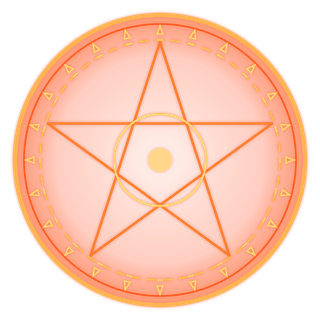
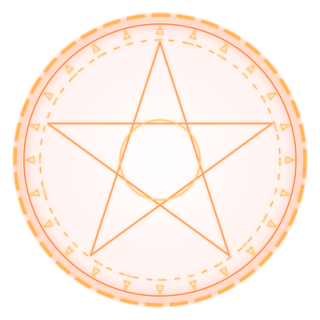
check

diff --git a/game/Crimson_Survivor/game.js b/game/Crimson_Survivor/game.js
@@ -404,7 +404,7 @@ function paintEnemyShotBody(c,shot,originX=0,originY=0){
   const styles=VIS.enemyShotStyles,type=shot.type,radius=Math.max(1,Number(shot.r)||1),f=enemyShotFrames(shot);c.save();c.translate(originX,originY);
   const shotImage=type==='bossSpear'?images.shotSpear:type==='bossOrb'?images.shotBossOrb:type==='bossBolt'?images.shotBossBolt:type==='orb'?images.shotSpit:fxTinted('shotShard',type==='wave'?styles.default.waveColor:styles.default.normalColor);
   if(shotImage){
-    if(type==='bossSpear'){c.drawImage(shotImage,-69,-15,100,30)}
+    if(type==='bossSpear'){c.drawImage(shotImage,-70,-21,104,42)}
     else if(type==='orb'){const pulse=1+Math.sin(f.pulseFrame/f.pulseFrames*TAU)*.08,size=radius*2.5*pulse;c.drawImage(shotImage,-size/2,-size/2,size,size)}
     else{c.rotate(f.rotationFrame/f.rotationFrames*TAU);const size=radius*(type==='bossBolt'?2.9:2.7);c.drawImage(shotImage,-size/2,-size/2,size,size)}
     c.restore();return;
@@ -2841,6 +2841,7 @@ function drawWorld(camX,camY){
   for(const textItem of game.texts)if(isVisibleWorld(textItem.x,textItem.y,cull.textExtra)){ctx.save();ctx.globalAlpha=textItem.life/textItem.max;ctx.font=`${VIS.damageText.fontWeight} ${textItem.size}px ${VIS.damageText.fontFamily}`;ctx.textAlign='center';ctx.fillStyle=textItem.color;if(VIS.damageText.strokeColor){ctx.lineJoin='round';ctx.lineWidth=VIS.damageText.strokeWidth||3;ctx.strokeStyle=VIS.damageText.strokeColor;ctx.strokeText(textItem.text,textItem.x,textItem.y)}else{ctx.shadowColor=VIS.damageText.shadowColor;ctx.shadowBlur=VIS.damageText.shadowBlur}ctx.fillText(textItem.text,textItem.x,textItem.y);ctx.restore()}profilerEnd('draw.particles',section);
 }
 
+const DIRECTIONAL_ENEMIES=new Set(VIS.enemy.directionalTypes||['rat','hound']);
 function drawEnemies(){
   const visual=VIS.enemy,hpVisual=visual.hpBar;
   for(const enemy of game.enemies){
@@ -2848,7 +2849,7 @@ function drawEnemies(){
     ctx.save();ctx.translate(enemy.x,enemy.y);let scale=1;
     if(enemy.type==='bloater'&&enemy.state==='charge')scale=1+Math.sin((visual.bloaterChargeReferenceSeconds-enemy.charge)*visual.bloaterChargePulseSpeed)*visual.bloaterChargePulseAmount+(1-enemy.charge/visual.bloaterChargeReferenceSeconds)*visual.bloaterChargeGrowth;
     if(enemy.type==='boss')scale=1+Math.sin(game.elapsed*visual.bossPulseSpeed)*visual.bossPulseAmount;
-    ctx.scale(enemy.flip||1,1);ctx.scale(scale,scale);ctx.globalAlpha=enemy.hitFlash>0?visual.hitFlashAlpha:1;const image=images[ENEMIES[enemy.type].img];
+    let facing=enemy.flip||1;if(DIRECTIONAL_ENEMIES.has(enemy.type)){const moved=enemy.x-(enemy.lastFacingX??enemy.x);enemy.lastFacingX=enemy.x;if(!(enemy.stun>0||enemy.freeze>0||game.effects.freeze>0))enemy.facingVelocity=(enemy.facingVelocity||0)*.82+moved*.18;const threshold=visual.facingThreshold??.25;if(enemy.facingVelocity>threshold)enemy.facing=1;else if(enemy.facingVelocity<-threshold)enemy.facing=-1;facing=enemy.facing||(game.player.x<enemy.x?-1:1)}ctx.scale(facing,1);ctx.scale(scale,scale);ctx.globalAlpha=enemy.hitFlash>0?visual.hitFlashAlpha:1;const image=images[ENEMIES[enemy.type].img];
     if(image){ctx.drawImage(image,-enemy.r*visual.spriteScale/2,-enemy.r*visual.spriteScale/2,enemy.r*visual.spriteScale,enemy.r*visual.spriteScale);profilerCount('drawImages')}else{ctx.fillStyle=visual.fallbackColor;ctx.beginPath();ctx.arc(0,0,enemy.r,0,TAU);ctx.fill()}
     if((enemy.freeze>0||game.effects.freeze>0)&&images.iceShell){ctx.globalAlpha=.9;const iceSize=enemy.r*2.75;ctx.drawImage(images.iceShell,-iceSize/2,-iceSize/2,iceSize,iceSize)}
     else if(enemy.freeze>0||game.effects.freeze>0){ctx.globalAlpha=visual.freezeRingAlpha;ctx.strokeStyle=visual.freezeRingColor;ctx.lineWidth=visual.freezeRingWidth;ctx.beginPath();ctx.arc(0,0,enemy.r+visual.freezeRingPadding+Math.sin(game.elapsed*visual.freezeRingPulseSpeed+enemy.variant*visual.freezeRingPulsePhaseScale)*visual.freezeRingPulseAmount,0,TAU);ctx.stroke()}
@@ -2894,7 +2895,7 @@ function drawEnemyShot(shot){
   const sprite=getEnemyShotBodySprite(shot);drawSpriteEntry(sprite,shot.x-sprite.extent,shot.y-sprite.extent);
 }
 
-function drawBoomerang(boomerang){const visual=VIS.boomerang;if(images.chakram){const size=boomerang.r*2.45;drawImageCentered(images.chakram,boomerang.x,boomerang.y,size,size,boomerang.rot);return}ctx.save();ctx.translate(boomerang.x,boomerang.y);ctx.rotate(boomerang.rot);ctx.strokeStyle=visual.color||CFG.weapons.boomerang.color;ctx.lineWidth=visual.lineWidth;ctx.shadowBlur=visual.shadowBlur;ctx.shadowColor=visual.shadowColor||CFG.weapons.boomerang.color;ctx.beginPath();ctx.arc(0,0,boomerang.r,visual.arcStart,visual.arcEnd);ctx.stroke();ctx.restore()}
+function drawBoomerang(boomerang){const visual=VIS.boomerang;if(images.chakram){const size=boomerang.r*2.45,glowImage=fxTinted('softGlow',visual.glowColor||visual.shadowColor||CFG.weapons.boomerang.color);if(glowImage){const glowSize=size*(visual.glowScale||1.55);ctx.save();ctx.globalCompositeOperation='lighter';ctx.globalAlpha=(visual.glowAlpha??.6)*(0.88+0.12*Math.sin(game.elapsed*14));ctx.drawImage(glowImage,boomerang.x-glowSize/2,boomerang.y-glowSize/2,glowSize,glowSize);ctx.restore()}drawImageCentered(images.chakram,boomerang.x,boomerang.y,size,size,boomerang.rot);return}ctx.save();ctx.translate(boomerang.x,boomerang.y);ctx.rotate(boomerang.rot);ctx.strokeStyle=visual.color||CFG.weapons.boomerang.color;ctx.lineWidth=visual.lineWidth;ctx.shadowBlur=visual.shadowBlur;ctx.shadowColor=visual.shadowColor||CFG.weapons.boomerang.color;ctx.beginPath();ctx.arc(0,0,boomerang.r,visual.arcStart,visual.arcEnd);ctx.stroke();ctx.restore()}
 function drawOrbit(){const weapon=game.player.weapons.orbit;if(!weapon)return;const level=weapon.level,levelCfg=weaponLevelConfig('orbit',level),visual=VIS.orbit,expand=levelCfg.expandCycleSeconds>0?(Math.sin(game.elapsed*TAU/levelCfg.expandCycleSeconds)*visual.expandPhaseMultiplier+visual.expandPhaseOffset):0,spec=orbitSpec(level,expand);ctx.save();ctx.globalAlpha=visual.ringAlpha;ctx.strokeStyle=visual.ringColor;ctx.lineWidth=level>=4?visual.ringWidthLevel4:visual.ringWidthBase;ctx.shadowBlur=visual.ringShadowBlur;ctx.shadowColor=visual.ringShadowColor;ctx.beginPath();ctx.arc(game.player.x,game.player.y,spec.radius,0,TAU);ctx.stroke();ctx.restore();for(let i=0;i<spec.count;i++){const angle=(game.orbitPhase||0)+i/spec.count*TAU,x=game.player.x+Math.cos(angle)*spec.radius,y=game.player.y+Math.sin(angle)*spec.radius;ctx.save();ctx.globalAlpha=visual.trailAlpha;ctx.strokeStyle=visual.trailColor;ctx.lineWidth=Math.max(visual.trailMinimumWidth,spec.size*visual.trailWidthMultiplier);ctx.beginPath();ctx.arc(game.player.x,game.player.y,spec.radius,angle-visual.trailArcLength,angle);ctx.stroke();ctx.restore();drawImageCentered(images.orbitBlade,x,y,spec.size,spec.size,angle+game.elapsed*visual.bladeRotationSpeed)}}
 function drawDrones(){const weapon=game.player.weapons.drone,config=weaponLevelConfig('drone',weapon?weapon.level:1),visual=VIS.drone;for(const drone of game.drones){const x=game.player.x+Math.cos(drone.angle)*config.orbitRadius,y=game.player.y+Math.sin(drone.angle)*config.orbitRadius;ctx.save();ctx.globalAlpha=visual.shadowAlpha;ctx.fillStyle=visual.shadowColor;ctx.beginPath();ctx.ellipse(x,y+visual.shadowOffsetY,visual.shadowRadiusX,visual.shadowRadiusY,0,0,TAU);ctx.fill();ctx.restore();drawImageCentered(images.droneUnit,x,y,visual.spriteSize,visual.spriteSize,drone.angle+Math.PI/2)}}
 function drawFlameJet(zone){const visual=VIS.flame,active=zone.age<zone.duration,envelope=active?clamp(Math.min(zone.age/visual.fadeInSeconds,(zone.duration-zone.age)/visual.fadeOutSeconds),0,1):0;if(envelope>0&&flameCoreCache){ctx.save();ctx.translate(zone.x,zone.y);ctx.rotate(zone.ang);ctx.globalCompositeOperation='lighter';ctx.globalAlpha=visual.coreAlpha*envelope;ctx.drawImage(flameCoreCache.canvas,flameCoreCache.offsetX,flameCoreCache.offsetY);ctx.restore();profilerCount('drawImages')}for(const flame of zone.flames||[]){const remain=clamp(flame.life/flame.max,0,1),progress=1-remain,fadeIn=clamp(progress/visual.particleFadeInProgress,0,1),alpha=fadeIn*Math.pow(remain,visual.particleFadePower)*visual.particleAlpha,size=flame.size*(visual.particleScaleStart+progress*visual.particleScaleGrowth);ctx.save();ctx.translate(flame.x,flame.y);ctx.rotate(flame.rot);ctx.globalCompositeOperation=visual.particleBlend||'source-over';ctx.globalAlpha=alpha;ctx.shadowBlur=visual.particleShadowBlur;ctx.shadowColor=flame.tone>visual.particleHotThreshold?visual.particleHotShadowColor:visual.particleCoolShadowColor;ctx.drawImage(images.flameSprite,-size*visual.particleDrawXMultiplier,-size*visual.particleDrawYMultiplier,size*visual.particleWidthMultiplier,size*visual.particleHeightMultiplier);ctx.restore();profilerCount('drawImages')}}

diff --git a/game/Crimson_Survivor/README_R37.md b/game/Crimson_Survivor/README_R37.md
@@ -27,3 +27,9 @@
 - visuals 調整：燃燒／腐蝕區透明度、傷害字體與描邊、血條顏色與金框、火焰粒子混合模式、暗角與血月光、地板透明度、環繞刃軌跡顏色。
 
 替換整個資料夾後，請完整重新整理頁面（Ctrl+F5）。
+
+## R37.1 修正
+- 老鼠、獵犬會依移動方向自動轉向（圖片朝右，往左走時水平翻轉）。暈眩、凍結時維持原方向；被擊退的瞬間位移已做平滑處理，不會抖動翻面。要加入其他敵人，可在 game-config.json 的 visuals.enemy.directionalTypes 增加類型。
+- 迴旋斬輪尺寸 ×1.33：各等級 radius 從 15/18/18/21/21 改為 20/23.9/23.9/27.9/27.9。這個值同時決定外觀與碰撞判定，所以命中範圍也一起變大。另外加上一層會微微脈動的橘金色光暈。
+- Boss 長矛加粗：矛身約 9px 亮色加深色外框，矛頭約 28px 高，接近 R36 原版的粗細。
+- 隕石預告法陣改為較淡的虛線外框樣式，看起來更像「預告」而不是傷害區（傷害判定本來就只在落地瞬間，這次沒有改邏輯）。
